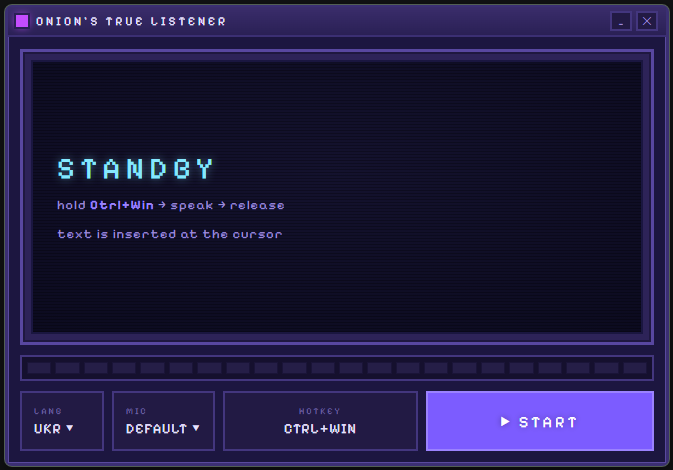
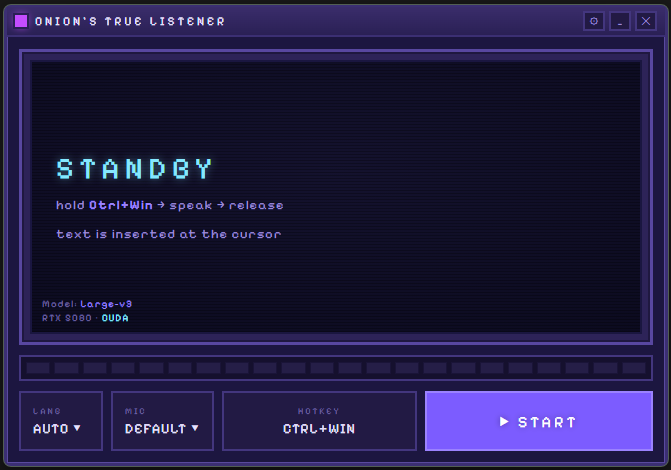
upd: some visuals

diff --git a/renderer.js b/renderer.js
@@ -20,6 +20,7 @@ const micPopup = document.getElementById('mic-popup');
 const overlay = document.getElementById('overlay');
 const modelListEl = document.getElementById('model-list');
 const gpuLabelEl = document.getElementById('gpu-label');
+const modelLabelEl = document.getElementById('model-label');
 
 // Window controls
 document.getElementById('min-btn').addEventListener('click', () => window.win.minimize());
@@ -49,6 +50,8 @@ let hotkeyName = 'F9';
 let lastText = '';
 let modelReady = false;
 let activeModelId = null;
+let modelItems = [];      // catalog with downloaded/active flags (from main)
+let downloadingGb = null; // size of the model currently downloading
 
 // ---------- Screen ----------
 function escapeHtml(s) {
@@ -70,17 +73,16 @@ function renderScreen(state, payload = '') {
     html = `<div class="scr-big">PRESS…</div>
       <div class="scr-hint">a key or combo · <b>Esc</b> to cancel</div>`;
   } else if (state === 'choose') {
-    html = `<div class="scr-big">CHOOSE MODEL</div>
-      <div class="scr-hint">pick one to download (one time):</div>
-      <div class="scr-choices">
-        <button class="scr-choice" data-model="large-v3"><b>Large-v3</b> · 3.1 GB<br><span>best quality, heavier</span></button>
-        <button class="scr-choice" data-model="large-v3-turbo"><b>Turbo</b> · 1.6 GB<br><span>almost as good, lighter</span></button>
-      </div>
-      <div class="scr-hint">more in <b>⚙</b> options</div>`;
+    const choices = modelItems.map((m) =>
+      `<button class="scr-choice" data-model="${m.id}"><b>${escapeHtml(m.label)}</b> · ${m.gb} GB` +
+      `<br><span>${escapeHtml(m.note)}</span></button>`).join('');
+    html = `<div class="scr-choosehead">CHOOSE A MODEL</div>
+      <div class="scr-choices">${choices}</div>`;
   } else if (state === 'downloading') {
     const pct = Math.round((payload || 0) * 100);
+    const gb = downloadingGb != null ? downloadingGb : '?';
     html = `<div class="scr-big">DOWNLOADING…</div>
-      <div class="scr-hint">${pct}% · one-time (~3 GB)</div>`;
+      <div class="scr-hint">${pct}% · one-time (~${gb} GB)</div>`;
   } else if (state === 'result') {
     html = `<div class="scr-text">${escapeHtml(payload)}</div>`;
   } else if (state === 'error') {
@@ -309,22 +311,38 @@ function setReady(ready) {
   toggleBtn.textContent = ready ? '▶ START' : '⚙ CHOOSE MODEL';
 }
 
+async function refreshModels() {
+  const data = await window.model.list();
+  modelItems = data.items;
+  activeModelId = data.active;
+  updateModelLabel();
+  return data;
+}
+function updateModelLabel() {
+  const m = modelItems.find((x) => x.id === activeModelId);
+  modelLabelEl.innerHTML = (m && m.downloaded) ? `Model: <b>${escapeHtml(m.label)}</b>` : '';
+}
+
 // Select a model as active; download it first if it isn't present yet.
 async function selectModel(id, downloaded) {
   overlay.classList.remove('show');
   activeModelId = id;
   await window.model.setActive(id);
+  updateModelLabel();
   if (downloaded) {
     setReady(true);
     renderScreen('idle');
     return;
   }
+  const item = modelItems.find((m) => m.id === id);
+  downloadingGb = item ? item.gb : null;
   toggleBtn.disabled = true;
   renderScreen('downloading', 0);
   const res = await window.model.download(id);
   toggleBtn.disabled = false;
   if (res.ok) { setReady(true); renderScreen('idle'); }
   else { setReady(false); renderScreen('error', res.error || 'download failed'); }
+  refreshModels(); // refresh downloaded flags
 }
 
 window.model.onProgress((d) => {
@@ -337,8 +355,7 @@ async function openOptions() {
   overlay.classList.add('show');
 }
 async function renderModelList() {
-  const data = await window.model.list();
-  activeModelId = data.active;
+  const data = await refreshModels();
   modelListEl.innerHTML = '';
   data.items.forEach((m) => {
     const row = document.createElement('div');
@@ -378,9 +395,10 @@ function askDelete(row, m) {
   confirm.querySelector('.no').addEventListener('click', (e) => { e.stopPropagation(); renderModelList(); });
   confirm.querySelector('.yes').addEventListener('click', async (e) => {
     e.stopPropagation();
+    const wasActive = m.id === activeModelId;
     await window.model.remove(m.id);
-    if (m.id === activeModelId) setReady(false); // active model gone
     await renderModelList();
+    if (wasActive) { setReady(false); renderScreen('choose'); } // active model gone
   });
 }
 
@@ -392,7 +410,9 @@ toggleBtn.addEventListener('click', () => {
 // First-run quick picks rendered on the screen
 screenInner.addEventListener('click', (e) => {
   const btn = e.target.closest('[data-model]');
-  if (btn) selectModel(btn.dataset.model, false);
+  if (!btn) return;
+  const m = modelItems.find((x) => x.id === btn.dataset.model);
+  selectModel(btn.dataset.model, m ? m.downloaded : false);
 });
 
 // ---------- GPU / backend label ----------
@@ -438,14 +458,13 @@ window.ptt.onStop(() => stop());
   micVal.textContent = (opts[0].short) + ' ▾';
   try { const r = await window.hotkey.get(); hotkeyName = r.name; hotkeyVal.textContent = r.name; } catch {}
 
-  const data = await window.model.list();
-  activeModelId = data.active;
+  const data = await refreshModels();
   const active = data.items.find((m) => m.id === data.active);
   if (active && active.downloaded) {
     setReady(true);
     renderScreen('idle');
   } else {
     setReady(false);
-    renderScreen('choose'); // first run: pick normal vs smaller
+    renderScreen('choose'); // first run: pick any of the available models
   }
 })();

diff --git a/index.html b/index.html
@@ -163,13 +163,13 @@
       user-select: text;
       white-space: pre-wrap;
     }
-    .px-gpu {
-      position: absolute;
-      bottom: 8px; left: 10px;
-      z-index: 2;
-      font-size: 10px; letter-spacing: 1px;
-      color: var(--vio-dim);
+    .px-botleft {
+      position: absolute; bottom: 8px; left: 10px; z-index: 2;
+      display: flex; flex-direction: column; gap: 2px;
     }
+    .px-model { font-size: 10px; letter-spacing: 1px; color: var(--vio-dim); }
+    .px-model b { color: var(--accent-hi); font-weight: 400; }
+    .px-gpu { font-size: 10px; letter-spacing: 1px; color: var(--vio-dim); }
     .px-gpu b { color: var(--cyan); font-weight: 400; }
     .px-scrbtns {
       position: absolute;
@@ -279,14 +279,15 @@
     .px-opt.sel { color: var(--ink); background: #2e2356; }
 
     /* ===== first-run model choice (on screen) ===== */
-    .scr-choices { display: flex; gap: 10px; margin-top: 6px; }
+    .scr-choosehead { font-size: 16px; letter-spacing: 3px; color: var(--cyan); }
+    .scr-choices { display: flex; flex-wrap: wrap; gap: 8px; margin-top: 4px; }
     .scr-choice {
-      flex: 1; text-align: left; background: var(--box); border: 2px solid var(--box-edge);
-      color: var(--ink); font-family: inherit; font-size: 13px; padding: 10px 12px; cursor: pointer;
+      flex: 1 1 46%; text-align: left; background: var(--box); border: 2px solid var(--box-edge);
+      color: var(--ink); font-family: inherit; font-size: 12px; padding: 8px 10px; cursor: pointer;
     }
     .scr-choice:hover { background: var(--accent); border-color: var(--accent-hi); }
     .scr-choice b { color: var(--cyan); }
-    .scr-choice span { color: var(--vio); font-size: 11px; }
+    .scr-choice span { color: var(--vio); font-size: 10px; }
     .scr-choice:hover b, .scr-choice:hover span { color: #fff; }
 
     /* ===== Options / Models overlay ===== */
@@ -359,7 +360,10 @@
       <div class="px-bezel">
         <div class="px-screen" id="screen">
           <div class="px-screen-inner" id="screen-inner"></div>
-          <div class="px-gpu" id="gpu-label"></div>
+          <div class="px-botleft">
+            <div class="px-model" id="model-label"></div>
+            <div class="px-gpu" id="gpu-label"></div>
+          </div>
           <div class="px-scrbtns" id="scrbtns">
             <button class="px-scrbtn" id="copy-btn" title="Copy all text">COPY</button>
             <button class="px-scrbtn" id="clear-btn" title="Clear screen">CLEAR</button>
